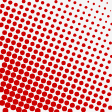
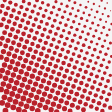
Strengthen preset identities

diff --git a/src/preset-select.js b/src/preset-select.js
@@ -3,10 +3,10 @@ import { mountPresetMenuMotion } from './preset-menu-motion.js';
 import { PHONE_LANDSCAPE, PHONE_LAYOUT } from './mobile-layout.js';
 
 const samples = {
-  red: { description: 'Crisp, balanced poster', image: new URL('./preset-previews/red.png', import.meta.url).href },
-  orange: { description: 'Warm, textured print', image: new URL('./preset-previews/orange.png', import.meta.url).href },
-  neon: { description: 'Neon negative with glow', image: new URL('./preset-previews/neon.png', import.meta.url).href },
-  blue: { description: 'Fine, precise grid', image: new URL('./preset-previews/blue.png', import.meta.url).href },
+  red: { description: 'Punchy crimson poster', image: new URL('./preset-previews/red.png', import.meta.url).href },
+  orange: { description: 'Warm, weathered ink', image: new URL('./preset-previews/orange.png', import.meta.url).href },
+  neon: { description: 'Fluorescent negative glow', image: new URL('./preset-previews/neon.png', import.meta.url).href },
+  blue: { description: 'Pale cyanotype grid', image: new URL('./preset-previews/blue.png', import.meta.url).href },
   fine: { description: 'Soft photographic detail', image: new URL('./preset-previews/fine.png', import.meta.url).href }
 };
 

diff --git a/script.js b/script.js
@@ -212,7 +212,7 @@ const controls = {
 };
 
 const builtInPresets = {
-  // Clean, regular dots and balanced tonal separation for graphic posters.
+  // Clean, regular dots with deeper crimson ink for a punchy poster finish.
   red: {
     quality: "ultra",
     cellSize: 6,
@@ -224,24 +224,24 @@ const builtInPresets = {
     microDot: 0,
     jitter: 0,
     seed: 11,
-    inkColor: "#cc0000",
+    inkColor: "#b8202a",
     paperColor: "#f5f5f5"
   },
-  // Softer ink coverage, irregular dots and light grain on warm paper.
+  // A coarser diagonal screen with irregular dots and grain on warm paper.
   orange: {
     quality: "high",
-    cellSize: 6,
+    cellSize: 7,
     contrast: 1.15,
     gamma: 1,
     minDot: 4,
-    screenAngle: 15,
+    screenAngle: 45,
     toneCurve: 1.05,
-    microDot: 18,
-    jitter: 12,
+    microDot: 24,
+    jitter: 18,
     seed: 42,
     inkColor: "#ad551e",
     paperColor: "#f3dfbc",
-    grainStrength: 10
+    grainStrength: 14
   },
   // A luminous negative: bright dots on dark paper, with restrained glow.
   neon: {

diff --git a/test/studio-panel.test.js b/test/studio-panel.test.js
@@ -128,7 +128,7 @@ test('visual preset options preserve selection and distinguish built-in samples 
   let options = popup.querySelectorAll('.studio-preset-option');
   assert.equal(options.length, 3);
   assert.equal(options[0].querySelector('img').alt, '');
-  assert.equal(options[0].querySelector('.studio-preset-description').textContent, 'Crisp, balanced poster');
+  assert.equal(options[0].querySelector('.studio-preset-description').textContent, 'Punchy crimson poster');
   assert.equal(options[2].querySelector('img'), null);
   assert.equal(options[2].querySelector('.studio-preset-description').textContent, 'Your saved preset');
   options[1].dispatchEvent(new browser.MouseEvent('click', { bubbles: true, detail: 1 }));
